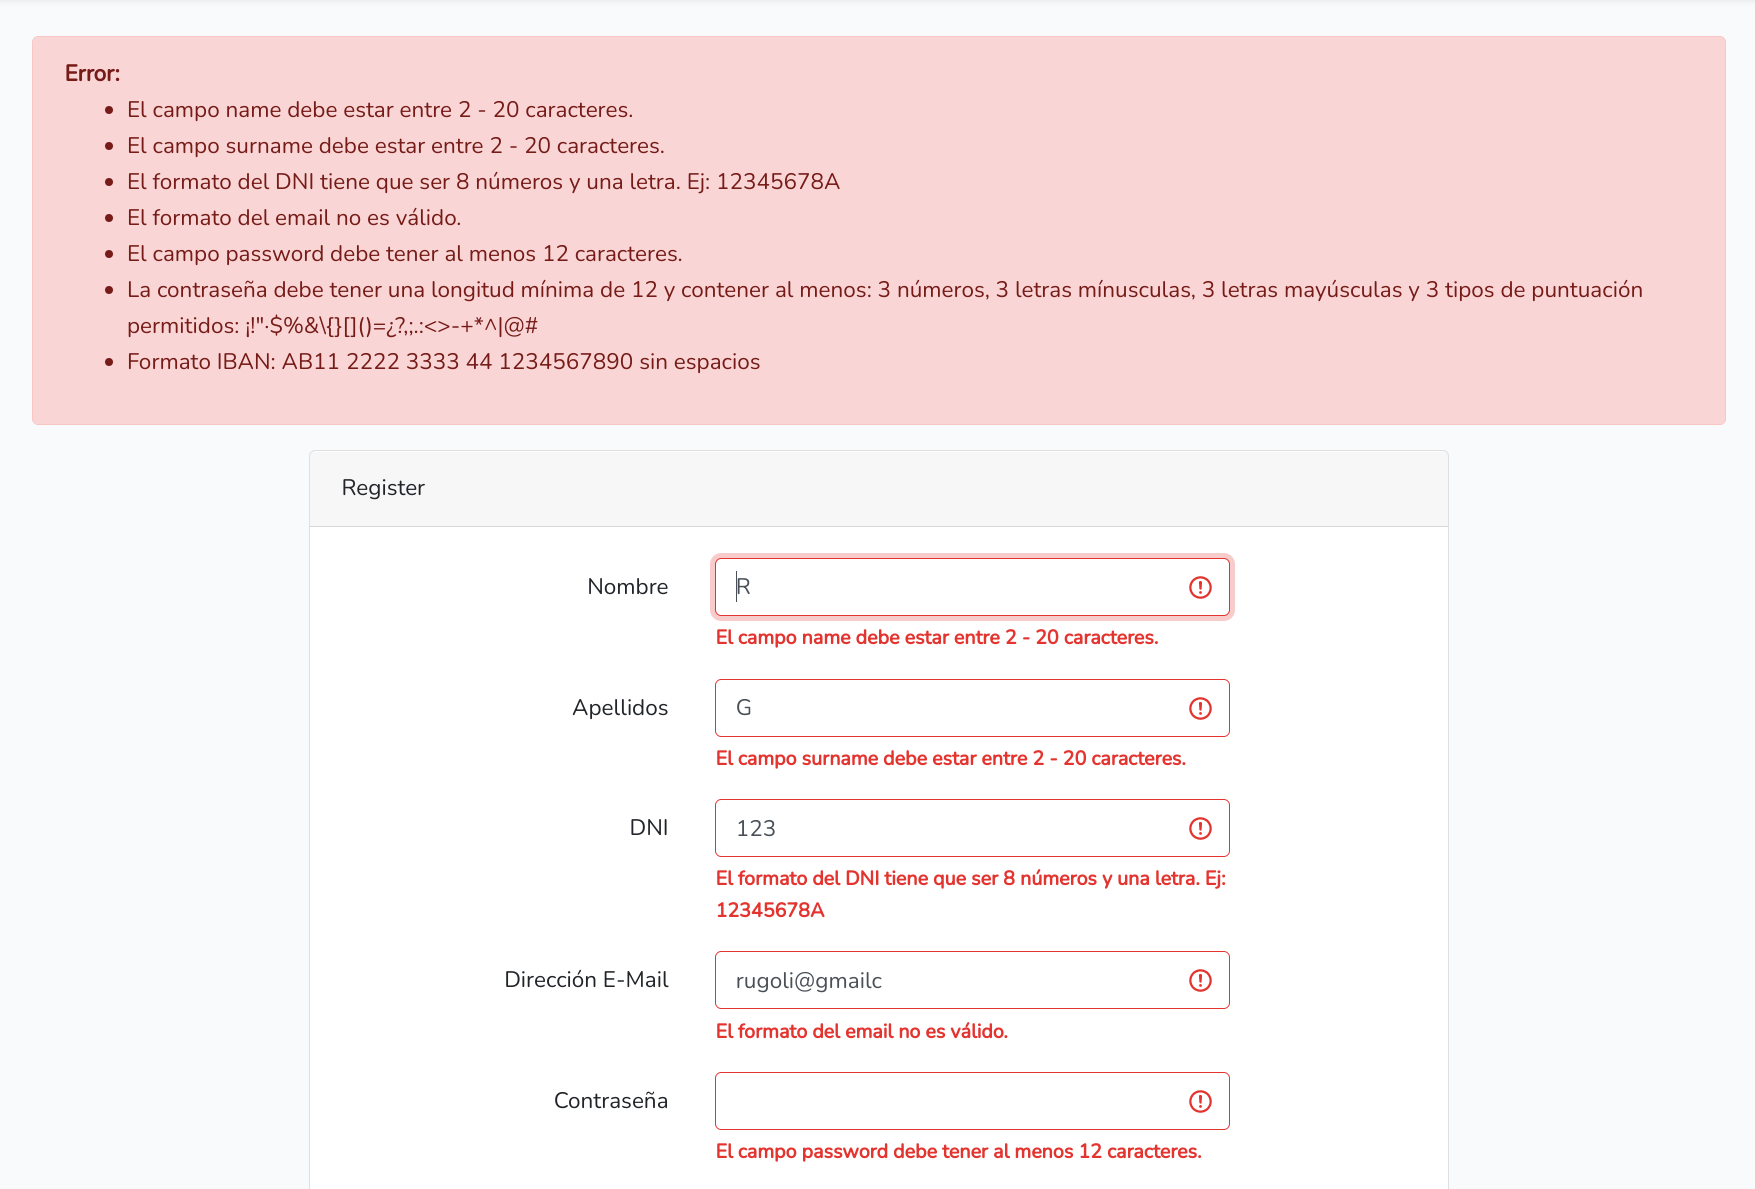
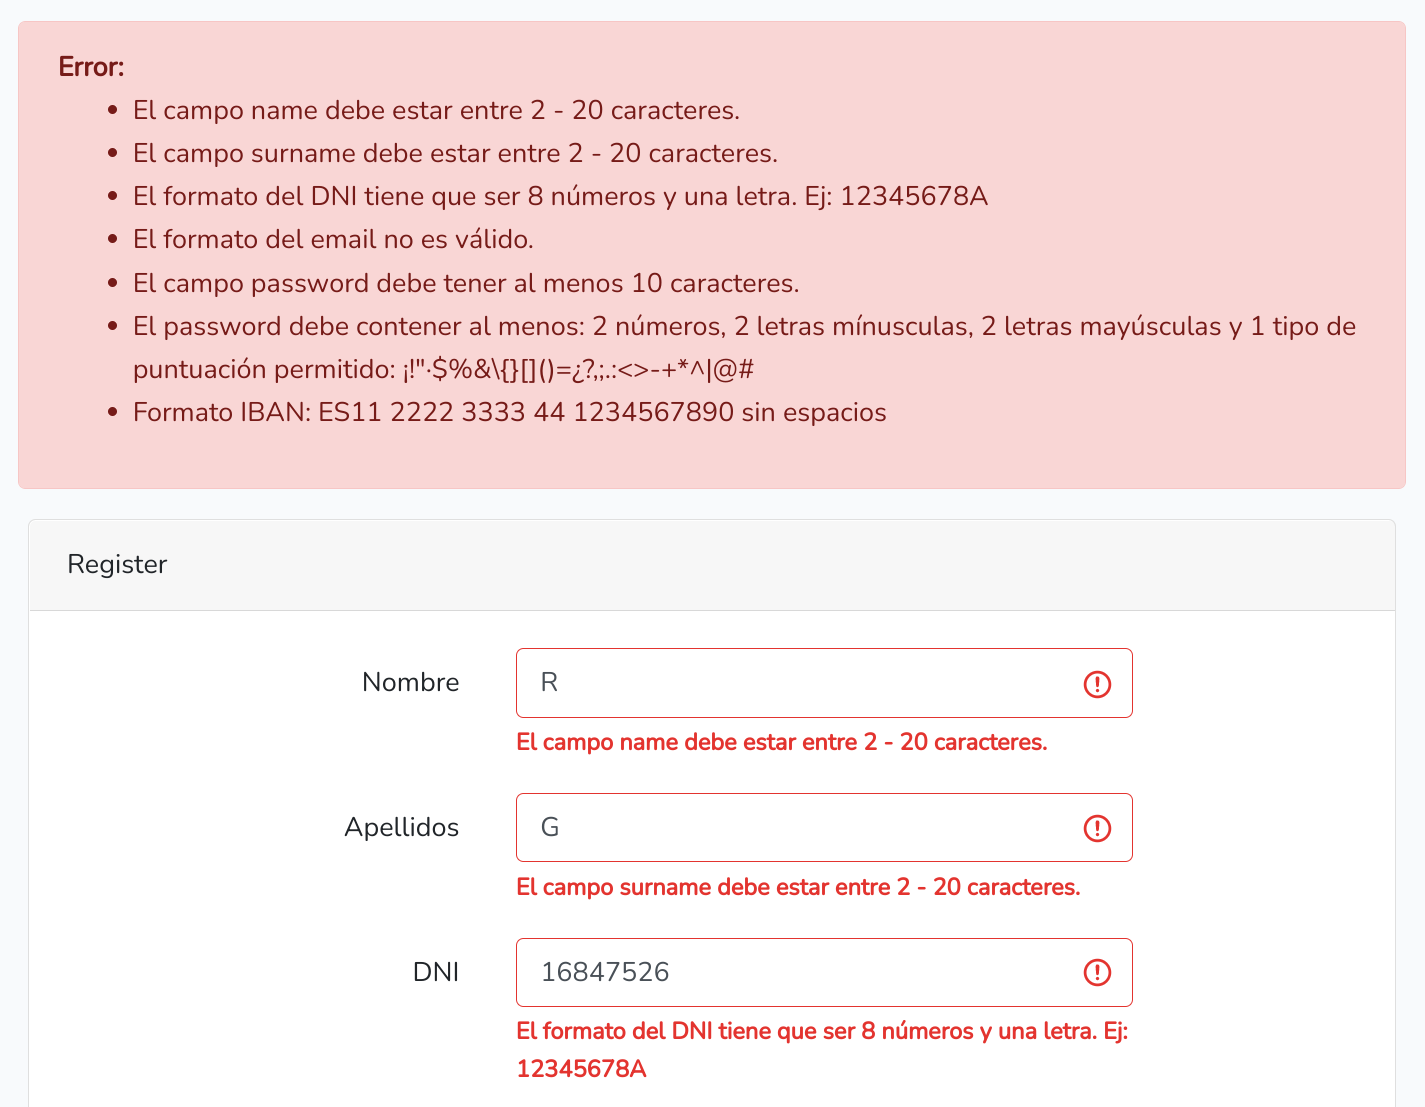
Laravel: Pequeñas modificaciones
Modificaciones por los comentarios en la clase de ayer.

Ajustada la documentación a los cambios realizados

diff --git a/Actividad_laravel/memoria/Actividad_laravel.tex b/Actividad_laravel/memoria/Actividad_laravel.tex
@@ -31,7 +31,7 @@
 
 \chapter{Introducción}
 
-La seguridad en informática es algo que se debe pensar desde el inicio de un proyecto, ya que las decisiones tomadas pueden repercutir en las iteraciones posteriores y en la evolución del producto.
+La seguridad en un proyecto informático es algo que se debe pensar desde el inicio de un proyecto, ya que las decisiones tomadas pueden repercutir en las iteraciones posteriores y en la evolución del producto que estemos realizado.
 
 A lo largo de este documento se van a explicar las decisiones tomadas, tanto en el ámbito de programación como de diseño, durante la creación de un formulario de registro para un portal web creado con el \textit{framework} \href{https://laravel.com/}{Laravel}.
 
@@ -134,7 +134,7 @@ Por otro lado, para no dar pistas también se ha modificado el fichero \configfi
 
 
 \subsection{Bloqueo de cuentas por fallos de autenticación}
-Para asegurar que no se realiza un ataque por fuerza bruta  de contraseñas durante el login, Laravel permite el bloqueo una vez realizado un número de intentos fallidos. Por defecto la configuración se encuentra en el fichero \configfile{Illuminate/Foundation/Auth/ThrottlesLogins.php} dentro del directorio \configdir{vendor/laravel/framework/src/}, donde hay dos funciones que indican que el número máximo de intentos es de 5 y el bloqueo se efectuará durante 1 minuto.
+Para asegurar que no se realiza un ataque por fuerza bruta  de contraseñas  Laravel permite el bloqueo una vez realizado un número de intentos fallidos. Por defecto la configuración se encuentra en el fichero \configfile{Illuminate/Foundation/Auth/ThrottlesLogins.php} dentro del directorio \configdir{vendor/laravel/framework/src/}, donde aparece que el número máximo de intentos es de 5 y el bloqueo se efectuará durante 1 minuto.
 
 Para ajustar esta configuración a nuestras necesidades, se ha modificado el fichero \configfile{app/Http/Controllers/Auth/LoginController.php} en el que añadiremos las variables \mintinline{php}{$decayMinutes} y \mintinline{php}{$maxAttempts} quedando:
 
@@ -167,12 +167,12 @@ A la hora de registrarse en una plataforma, hay que asegurarse que los datos int
 
 Los datos deben de validarse antes de acceder a la base de datos, y por tanto se debe de realizar en el \textit{\textbf{backend}} de la aplicación web.
 
-Como ya se ha dicho previamente, Laravel cuenta con una \href{https://laravel.com/docs/6.x/validation}{documentación extensa} acerca de su sistema de validación y cómo lo podemos ampliar para adecuarlo a nuestras necesidades, tal como veremos a continuación.
+Como ya se ha dicho previamente, Laravel cuenta con una \href{https://laravel.com/docs/6.x/validation}{documentación extensa} acerca de su sistema de validación indicando cómo lo podemos ampliar para adecuarlo a nuestras necesidades, tal como veremos a continuación.
 
 \subsection{Creación de campos propios}
 El sistema de registro de Laravel (a través del sistema de autenticación citado previamente) crea una página donde se puede insertar nombre, e-mail y contraseña.
 
-En caso de que queramos añadir nuevos campos debemos modificar el fichero de la vista \configfile{resources/views/auth/register.blade.php} y añadir los campos que nos interese.
+Para añadir nuevos campos debemos modificar el fichero de la vista \configfile{resources/views/auth/register.blade.php} y añadir los campos que nos interese.
 
 Modificaremos \configfile{app/Http/Controllers/Auth/RegisterController.php} para que estos campos posteriormente se inserten en la base de datos, quedando la función \textit{\textbf{create}} de la siguiente manera:
 
@@ -204,7 +204,7 @@ Para ello se ha creado un fichero \textbf{\textit{migrate}} en el que se indica 
 
 
 \subsection{Reglas propias de validación}
-Con los nuevos campos creados en la base de datos y con el formulario modificado, es momento de realizar las validaciones oportunas, paso previo a la inserción de datos.
+Con los nuevos campos creados en la base de datos y con el formulario modificado, es momento de realizar las validaciones oportunas, paso previo a la inserción de datos en MySQL.
 
 Laravel nos permite realizar validaciones sencillas teniendo en cuenta el campo, el tipo de datos, longitud...
 
@@ -227,7 +227,7 @@ protected function validator(array $data)
 }
 \end{mycode}
 
-En las validaciones expuestas, se han realizado validaciones propias para los campos \textbf{dni}, \textbf{password}, \textbf{teléfono} e \textbf{IBAN}. Estas validaciones propias se han creado dentro del directorio \configdir{app/rules}, donde cada fichero es una validación y contienen una clase con dos funciones importantes:
+En las validaciones expuestas, se han realizado validaciones propias para los campos \textbf{dni}, \textbf{password}, \textbf{teléfono} e \textbf{IBAN}. Estas validaciones propias se han creado dentro del directorio \configdir{app/rules}, donde cada fichero es una validación y contienen una clase con dos funciones principales:
 
 \begin{itemize}
     \item \textbf{passes}: función que recibe el contenido del campo del formulario y en el que realizaremos la validación. Las validaciones realizadas para este proyecto se han solucionado con una o varias expresiones regulares.
@@ -238,28 +238,28 @@ En las validaciones expuestas, se han realizado validaciones propias para los ca
 En caso de que existan varios mensajes de error, aparecerán todos seguidos e indicando cuáles son los campos que han dado error, a través de un borde rojo:
 
 \begin{center}
-    \includegraphics[frame,width=0.9\linewidth]{img/errores.png}
+    \includegraphics[frame,width=0.8\linewidth]{img/errores.png}
 \end{center}
 
 
 Una de las validaciones más importantes realizadas ha sido la de la contraseña, la que se ha forzado que tenga que ser:
 
 \begin{itemize}
-    \item Al menos 12 caracteres, de los cuales:
-    \item Al menos 3 tienen que ser letras minúsculas.
-    \item Al menos 3 tienen que ser letras mayúsculas.
-    \item Tiene que haber al menos 3 números.
-    \item Tiene que incluir al menos 3 símbolos tipográficos.
+    \item Al menos 10 caracteres, de los cuales:
+    \item Al menos 2 tienen que ser letras minúsculas.
+    \item Al menos 2 tienen que ser letras mayúsculas.
+    \item Tiene que haber al menos 2 números.
+    \item Tiene que incluir al menos 1 símbolo tipográfico.
 \end{itemize}
 
 Esta validación se ha conseguido mediante expresiones regulares en su fichero de reglas propio. De cara a futuro, se podría mejorar creando unas variables de entorno en el fichero \configfile{.env} donde se indique el la dificultad de la contraseña a introducir.
 
 \subsection{Mantener valores en el formulario tras un error}
-Tal como se ha visto en el paso anterior, en caso de que el registro de un error durante la validación, se le indicará al usuario, indicando los campos que debe de corregir.
+Tal como se ha visto en el paso anterior, en caso de que el registro devuelva un error durante la validación, se le indicará al usuario, indicando los campos que debe corregir.
 
 Es por eso que es importante mantener los valores que ha introducido previamente, ya que de esta manera estaremos facilitando la usabilidad de la aplicación.
 
-Esto se ha conseguido en la vista del registro indicando en los apartados \textit{value} el valor previo que nos permite obtener Laravel.
+Esto se ha conseguido en la vista del registro indicando en los parámetros \textit{\textbf{value}} el valor previo que nos permite obtener Laravel.
 
 
 \begin{mycode}{Valores antiguos en el formulario}{html+php}{}
@@ -297,14 +297,19 @@ Tal como se ha visto en la imágenes, los mensajes de validación aparecen en ca
 
 Las traducciones de los mensajes se han añadido en el directorio \configdir{resources/lang/es}, manteniendo la misma estructura de ficheros existente en el idioma inglés.
 
-Para realizar parte de las traducciones se ha utilizado las traducciones ya realizadas por Marco Gomes de su \href{https://github.com/MarcoGomesr/laravel-validation-en-espanol}{proyeto de GIthub}.
+Para realizar parte de las traducciones se ha utilizado como base las traducciones ya realizadas por Marco Gomes de su \href{https://github.com/MarcoGomesr/laravel-validation-en-espanol}{proyeto de GIthub}.
+
+Las traducciones para los campos propios del proyecto se han añadido al fichero \configfile{formulario.php} dentro del directorio indicado previamente.
+
+\vfill
+\pagebreak
 
 \chapter{Conclusiones}
-Hoy en día es habitual que en cualquier portal web de servicios haya que realizar un registro con ciertos datos personales. Es importante que estos datos sean validados y que se compruebe que la seguridad del portal no se ve comprometido por los datos introducidos.
+Hoy en día es habitual que en cualquier portal web de servicios haya que realizar un registro con ciertos datos personales. Es importante que estos datos sean validados y que se compruebe que la seguridad del portal no se ve comprometida por los datos introducidos.
 
-Es por eso que, previa a la inserción de los datos en la base de datos, resulta obligatorio realizar una validación de los datos introducidos en los formularios, tal como hemos visto a lo largo de este documento.
+Es por eso que, previa a la inserción de los datos en la base de datos, es obligatorio realizar una validación de los datos introducidos en los formularios, tal como hemos visto a lo largo de este documento.
 
-Aunque de primeras quizá pueda parecer una labor tediosa, los framework como Laravel facilitan esa labor. Es por eso que no hay excusa para no hacer uso de estos sistemas de validaciones, que por otro lado también ayudan al usuario a utilizar nuestras aplicaciones mejorando la usabilidad de la misma.
+Aunque de primeras quizá pueda parecer una labor tediosa, los framework como Laravel facilitan esa labor. Por eso no hay excusa para no hacer uso de estos sistemas de validaciones, que por otro lado también ayudan al usuario a utilizar nuestras aplicaciones mejorando la usabilidad de la misma.
 
 
 

diff --git a/Actividad_laravel/src/resources/lang/es/formulario.php b/Actividad_laravel/src/resources/lang/es/formulario.php
@@ -6,12 +6,12 @@ return [
     'e-mail' => 'Dirección E-Mail',
     'dni_validation' => 'El formato del DNI tiene que ser 8 números y una letra. Ej: 12345678A',
     'password' => 'Contraseña',
-    'password_validation' => 'La contraseña debe tener una longitud mínima de 12 y contener al menos: 3 números, 3 letras mínusculas, 3 letras mayúsculas y 3 tipos de puntuación permitidos: ¡!"·$%&\{}[]()=¿?,;.:<>-+*^|@#',
+    'password_validation' => 'El password debe contener al menos: 2 números, 2 letras mínusculas, 2 letras mayúsculas y 1 tipo de puntuación permitido: ¡!"·$%&\{}[]()=¿?,;.:<>-+*^|@#',
     'confirm_password' => 'Confirme contraseña',
     'telephone' => 'Teléfono',
     'telefono_validation' => 'El formato del teléfono es incorrecto. Mínimo 9 y máximo 12 números. También se acepta + al inicio',
     'iban' => 'IBAN',
-    'iban_validation' => 'Formato IBAN: AB11 2222 3333 44 1234567890 sin espacios',
+    'iban_validation' => 'Formato IBAN: ES11 2222 3333 44 1234567890 sin espacios',
     'about' => 'Sobre ti',
     'country' => 'País',
     'choose_country' => 'Elige País',

diff --git a/Actividad_laravel/src/resources/lang/en/formulario.php b/Actividad_laravel/src/resources/lang/en/formulario.php
@@ -1,0 +1,19 @@
+<?php
+
+return [
+    'name' => 'Name',
+    'surname' => 'Surname',
+    'e-mail' => 'E-Mail',
+    'dni_validation' => 'DNI must be 8 numbers and 1 letter: 12345678A',
+    'password' => 'Password',
+    'password_validation' => 'The password must contain at least: 2 numbers, 2 lowercase letters, 2 uppercase letters y 1 punctuation sign: ¡!"·$%&\{}[]()=¿?,;.:<>-+*^|@#',
+    'confirm_password' => 'Confirm password',
+    'telephone' => 'Telephone',
+    'telefono_validation' => 'The telephone format is incorrect. 9 to 12 numbers, and +',
+    'iban' => 'IBAN',
+    'iban_validation' => 'IBAN format: ES11 2222 3333 44 1234567890 sin espacios',
+    'about' => 'About yout',
+    'country' => 'Country',
+    'choose_country' => 'Choose country',
+    'register' => 'Register',
+];

diff --git a/Actividad_laravel/src/app/Rules/password.php b/Actividad_laravel/src/app/Rules/password.php
@@ -27,10 +27,10 @@ class password implements Rule
     {
         return
             // https://www.php.net/manual/en/regexp.reference.unicode.php
-            preg_match('/(.*\d){3,}/u',$value) // dígitos
-            && preg_match("/(.*\p{Ll}){3,}/u",$value)  //letras minúsculas
-            && preg_match("/(.*\p{Lu}){3,}/u",$value) //letras mayúsculas
-            && preg_match('/(.*\W){3,}/u',$value) // \W -> signos de puntuación
+            preg_match('/(.*\d){2,}/u',$value) // dígitos
+            && preg_match("/(.*\p{Ll}){2,}/u",$value)  //letras minúsculas
+            && preg_match("/(.*\p{Lu}){2,}/u",$value) //letras mayúsculas
+            && preg_match('/(.*\W){1,}/u',$value) // \W -> signos de puntuación
         ;
     }
 

diff --git a/Actividad_laravel/src/app/Http/Controllers/Auth/RegisterController.php b/Actividad_laravel/src/app/Http/Controllers/Auth/RegisterController.php
@@ -69,7 +69,7 @@ class RegisterController extends Controller
             'surname'   => ['required', 'string', 'between:2,20'],
             'dni'       => ['required', new dni,'max:9'],
             'email'     => ['required', 'email:filter', 'max:255', 'unique:users'],
-            'password'  => ['required', 'string', 'min:12', new password, 'confirmed'],
+            'password'  => ['required', 'string', 'min:10', new password, 'confirmed'],
             'telephone' => ['nullable', new telefono,'max:13'], // 13 porque es 12 y el "+", o 0034+9digitos
             'iban'      => ['required', new iban, 'max:24'],
             'about'     => ['nullable', 'string', 'between:20,250'],

diff --git a/Actividad_laravel/src/app/Rules/iban.php b/Actividad_laravel/src/app/Rules/iban.php
@@ -25,9 +25,9 @@ class iban implements Rule
      */
     public function passes($attribute, $value)
     {
-        return preg_match("/[A-Z]{2}\d{22}/",$value)
+        return preg_match("/ES\d{22}/",$value)
             // si queremos permitir espacios podríamos usar la siguiente regexp
-            // || preg_match("/[A-Z]{2}\d{2} \d{4} \d{4} \d{2} \d{10}/",$value)
+            // || preg_match("/ES\d{2} \d{4} \d{4} \d{2} \d{10}/",$value)
         ;
     }
 

diff --git a/Actividad_laravel/src/resources/views/layouts/_errors.blade.php b/Actividad_laravel/src/resources/views/layouts/_errors.blade.php
@@ -1,5 +1,6 @@
 @if ($errors->any())
-    <div class="alert alert-danger offset-2 col-8">
+<div class="container">
+    <div class="alert alert-danger offset-2 col-md-8">
         <b>Error:</b>
         <ul>
             @foreach ($errors->all() as $error)
@@ -7,4 +8,5 @@
             @endforeach
         </ul>
     </div>
+</div>
 @endif

diff --git a/Actividad_laravel/README.md b/Actividad_laravel/README.md
@@ -10,11 +10,11 @@ Junto con el código fuente se acompaña de un fichero **compose.yaml** que faci
   - Crea la base de datos **actividad1** y un usuario con los siguientes credenciales de acceso:
     - **usuario**:  actividad1
     - **contraseña**: 4ct1v1d4d1
-- **Servidor web con phpmyadmin**: utiliza el puerto 3307 para poder acceder de manera gráfica al servidor mysql.
+- **Servidor web con phpmyadmin**: utiliza el puerto 3307 para poder acceder de mediante el navegador web al servidor mysql.
 
 
 ## Código
-Para realizar la instalación de las dependencias necesitamos realizar los siguientes comandos dentro del directorio "viudb":
+Para realizar la instalación de las dependencias necesitamos realizar los siguientes comandos dentro del directorio "src":
 
 ```
 composer install
@@ -27,7 +27,7 @@ De esta manera se instalan las dependencias necesarias.
 En caso de no utilizar los servicios Docker comentados previamente, hay que crear la base de datos y el usuario puesto en dicho apartado. En caso de realizar cualquier modificación de esos datos, hay que modificar el fichero **.env** con los nuevos datos para que Laravel los utilice.
 
 ### Despliegue de base de datos y datos de pruebas
-Junto con el proyecto se ha creado los diferentes **migrates** para que el proyecto cree la base de datos y unos datos de pruebas. Para que todo funcione hay que ejecutar lo siguiente:
+Junto con el proyecto se ha creado los diferentes **migrates** para que el proyecto cree las tablas necesarias y unos datos de pruebas. Para que todo funcione hay que ejecutar lo siguiente:
 
 ```
 php artisan migrate
